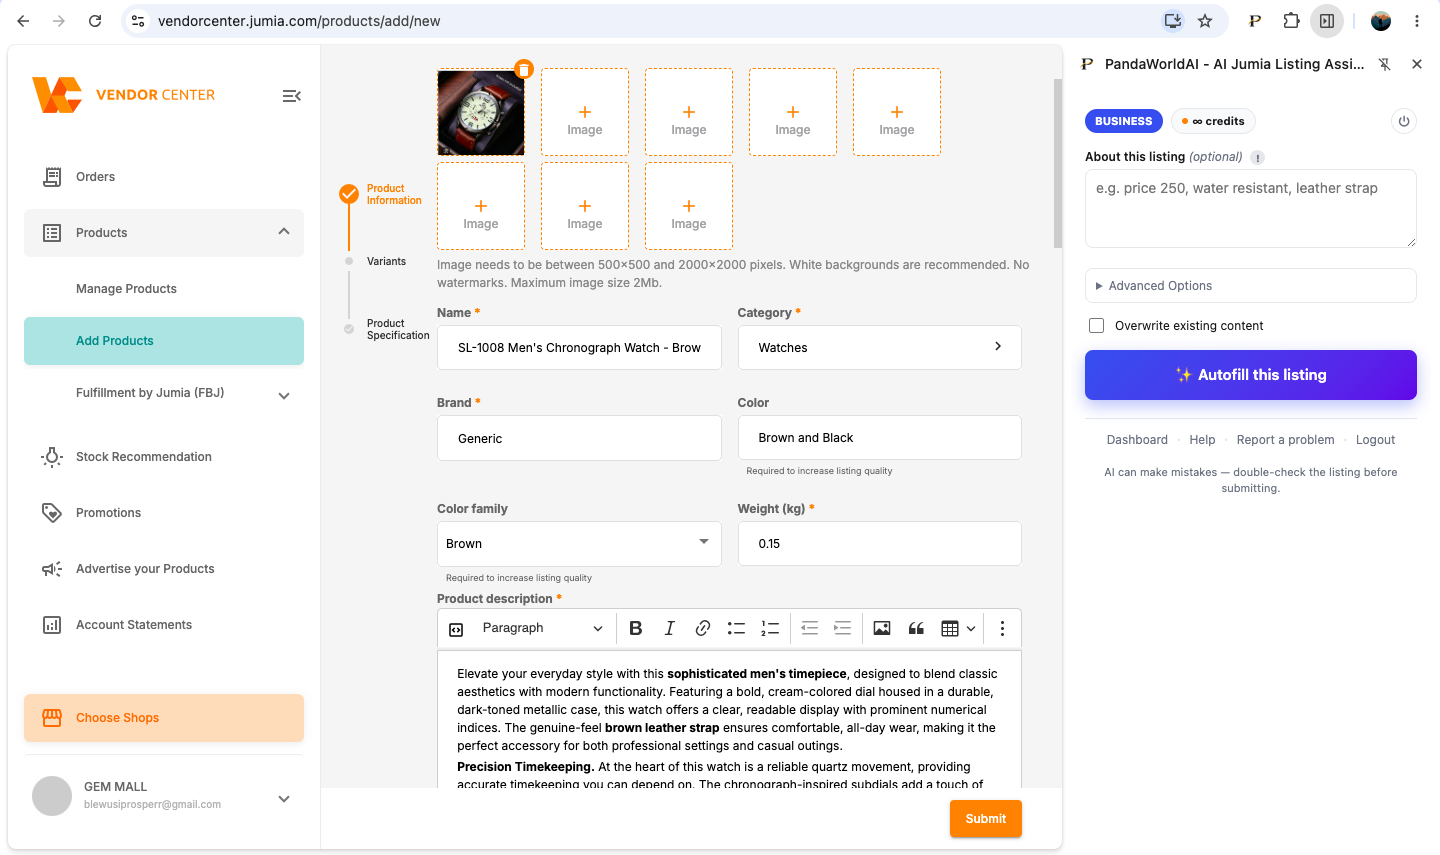
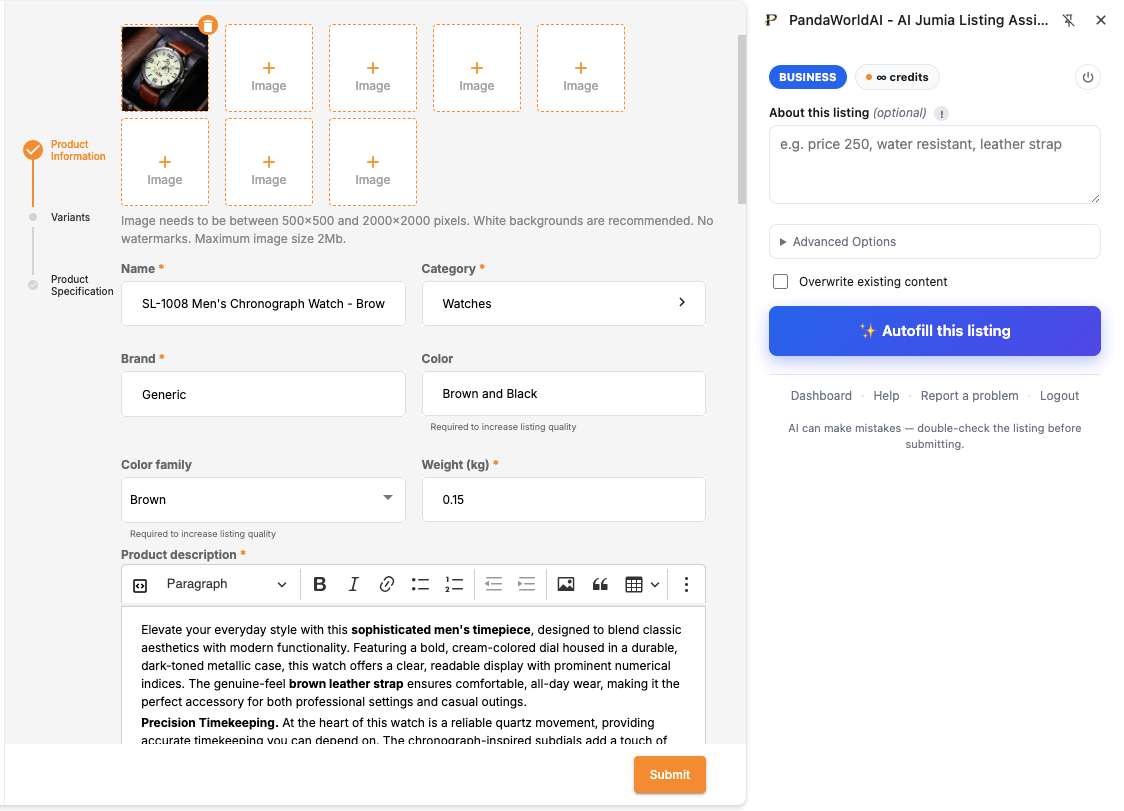
Crop and enlarge the Chrome extension screenshots
The 3-up grid crushed a dense 1440x855 desktop screenshot down to ~325px
wide, making the form labels and body text illegible. Crop out the
Vendor Center sidebar and browser chrome (dead space, no content value)
and stack the three shots full-width instead of side by side, so the
remaining pixels go to text that's actually worth reading.

Claude-Session: https://claude.ai/code/session_01FxcP4Xa2JoUByU1SnaBtbd

diff --git a/app/extension/page.tsx b/app/extension/page.tsx
@@ -295,17 +295,24 @@ export async function ExtensionPage() {
               </div>
               <h3 className="text-lg font-bold text-zinc-900">From the Chrome extension</h3>
             </div>
-            <div className="mt-6 grid grid-cols-1 gap-6 sm:grid-cols-3">
+            {/* Stacked full-width, not a 3-up grid — these are dense
+                desktop screenshots (small form labels and body text), and
+                a WhatsApp-shot-sized thumbnail crushed them down to the
+                point of illegibility. Cropped to just the form + extension
+                panel (public/marketing/extension-flow-*.png), dropping the
+                Vendor Center sidebar and browser chrome, so the remaining
+                pixels all go to content that's actually worth reading. */}
+            <div className="mx-auto mt-6 flex max-w-3xl flex-col gap-8">
               {EXTENSION_SHOTS.map((shot, i) => (
                 <figure key={shot.src} className="flex flex-col items-center">
                   <div className="overflow-hidden rounded-2xl border border-zinc-200 shadow-sm">
                     <Image
                       src={shot.src}
                       alt={shot.alt}
-                      width={480}
-                      height={285}
+                      width={1124}
+                      height={811}
                       className="h-auto w-full"
-                      sizes="(min-width: 640px) 33vw, 100vw"
+                      sizes="(min-width: 768px) 768px, 100vw"
                     />
                   </div>
                   <figcaption className="mt-3 text-sm text-zinc-500">
